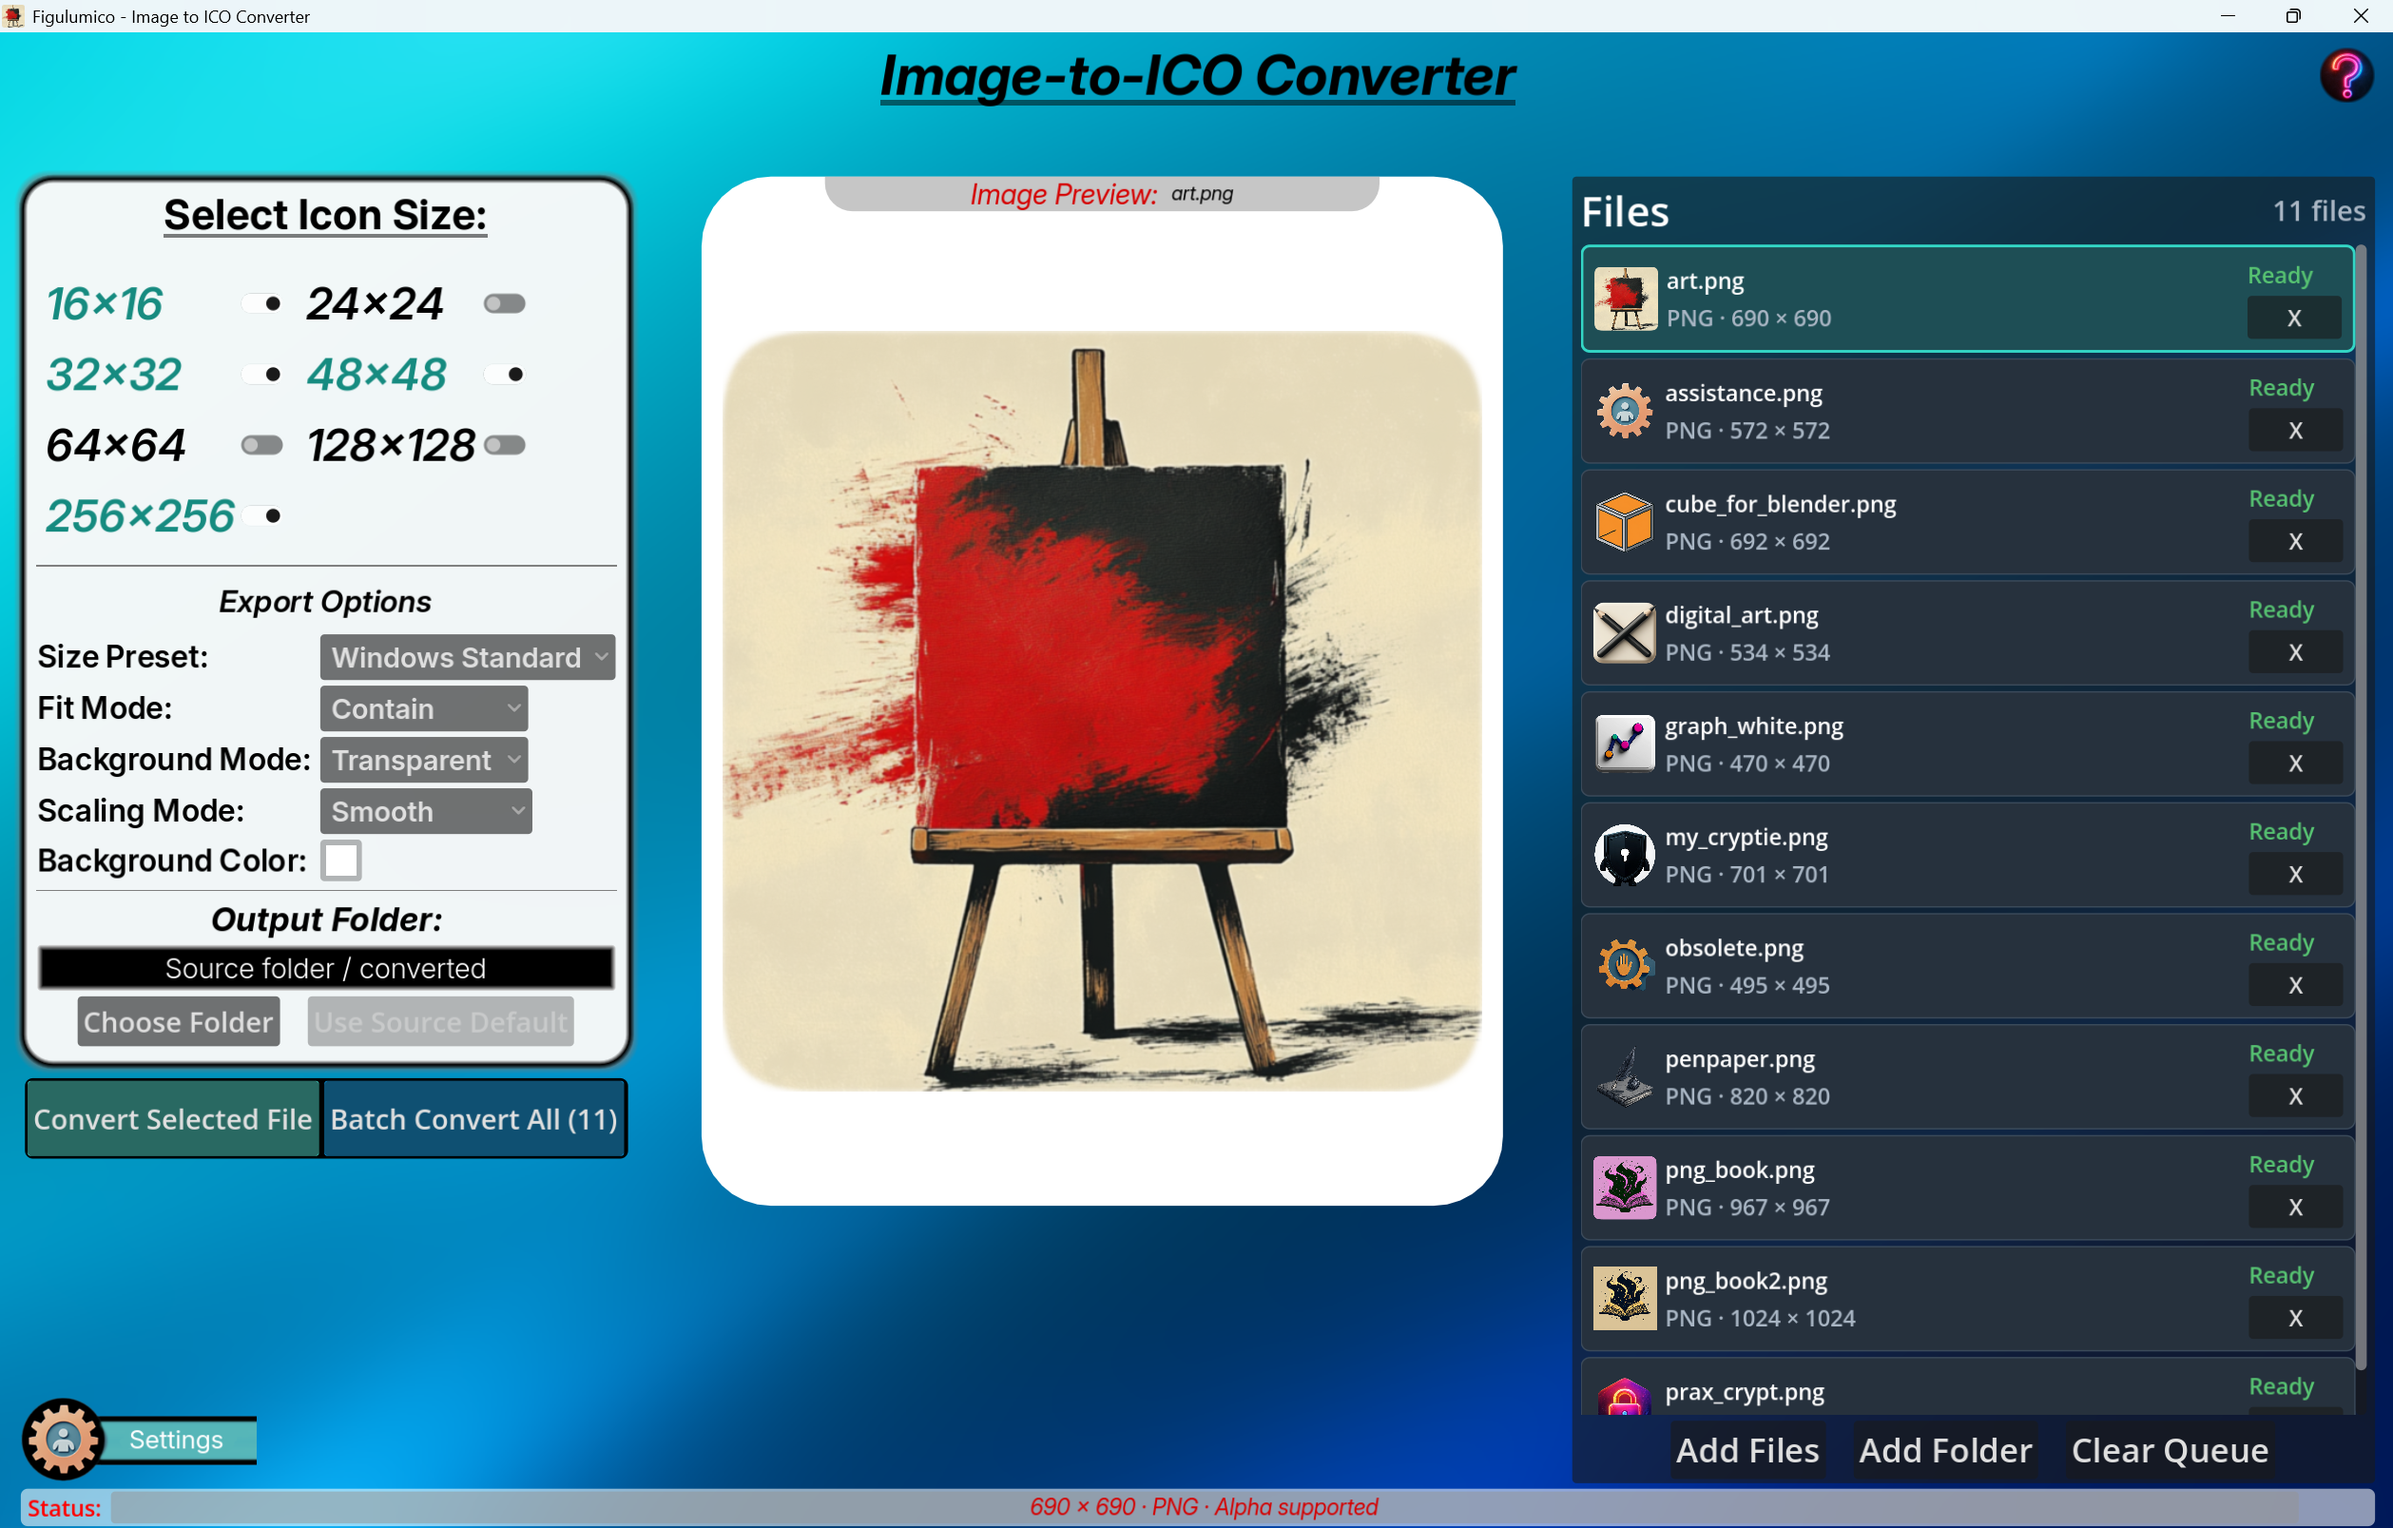
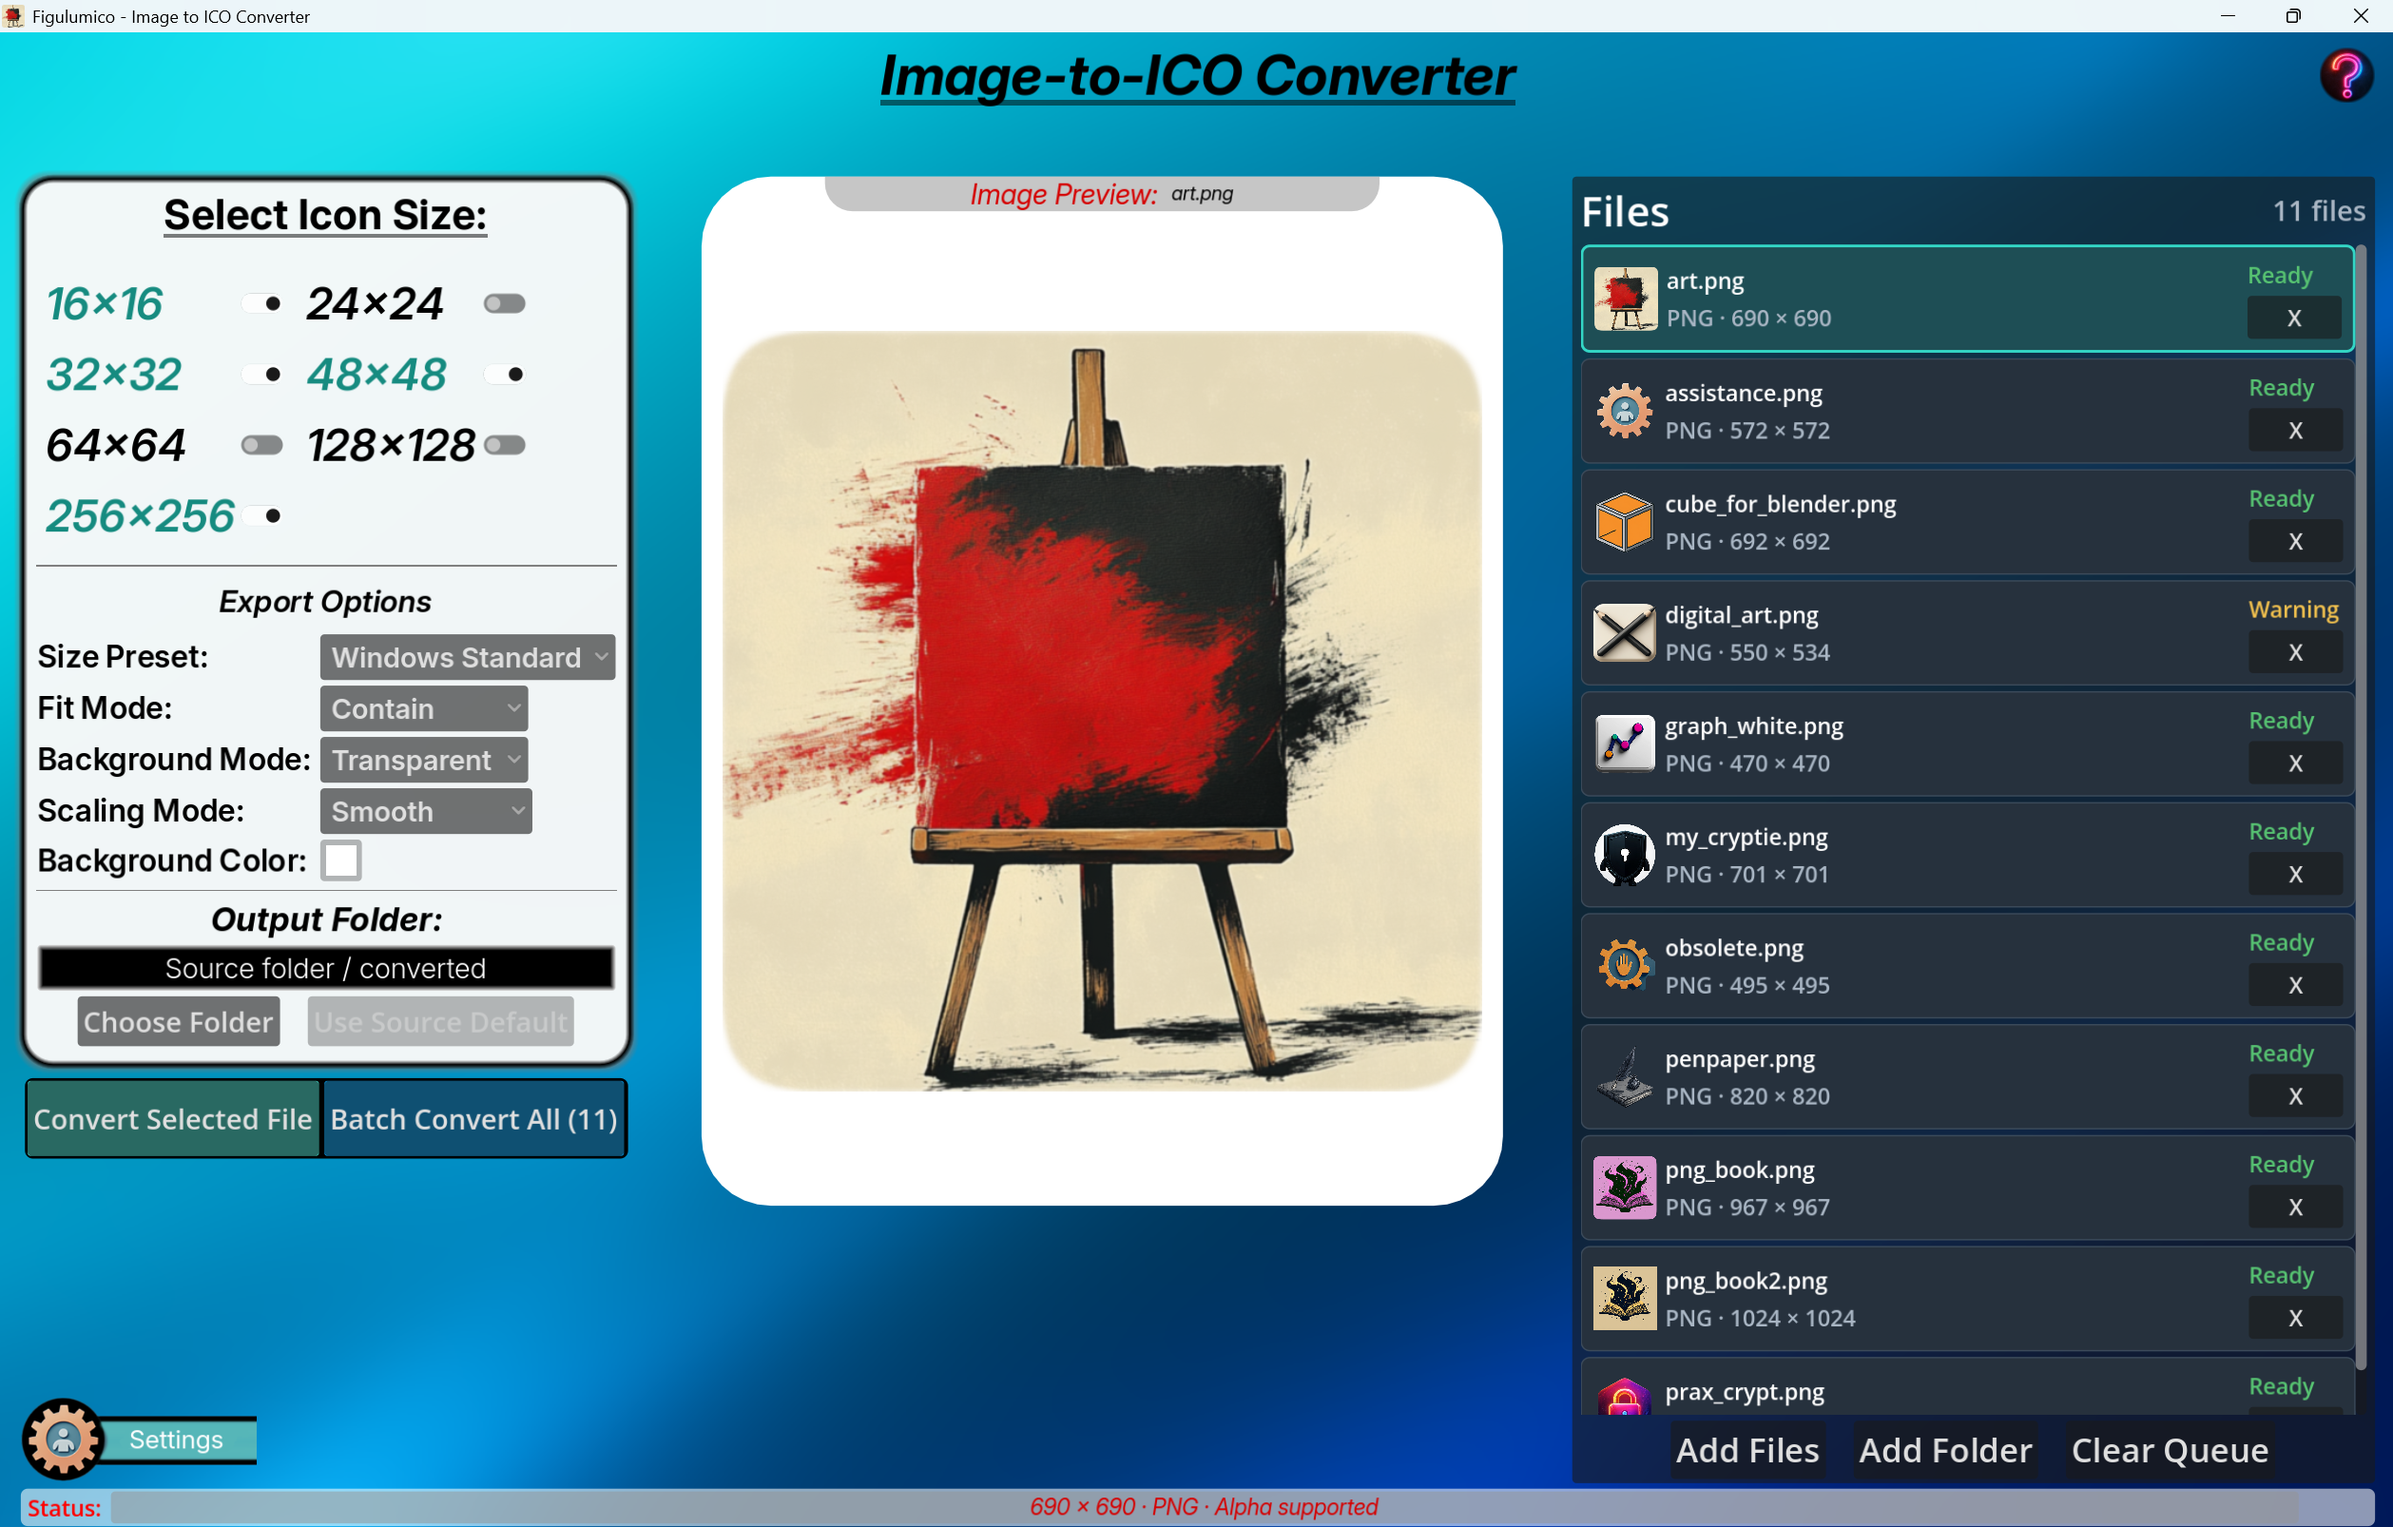
Finalize Figulumico v1.0.0 release cleanup

diff --git a/README.md b/README.md
@@ -12,6 +12,7 @@ Images are processed entirely on your device. No cloud uploads. No telemetry. No
 ### Main Window
 
 ![Figulumico main window](docs/screenshots/figulumico-main.png)
+![Figulumico batchconvert](docs/screenshots/figulumico-batchconvert.png)
 
 ## Features
 
